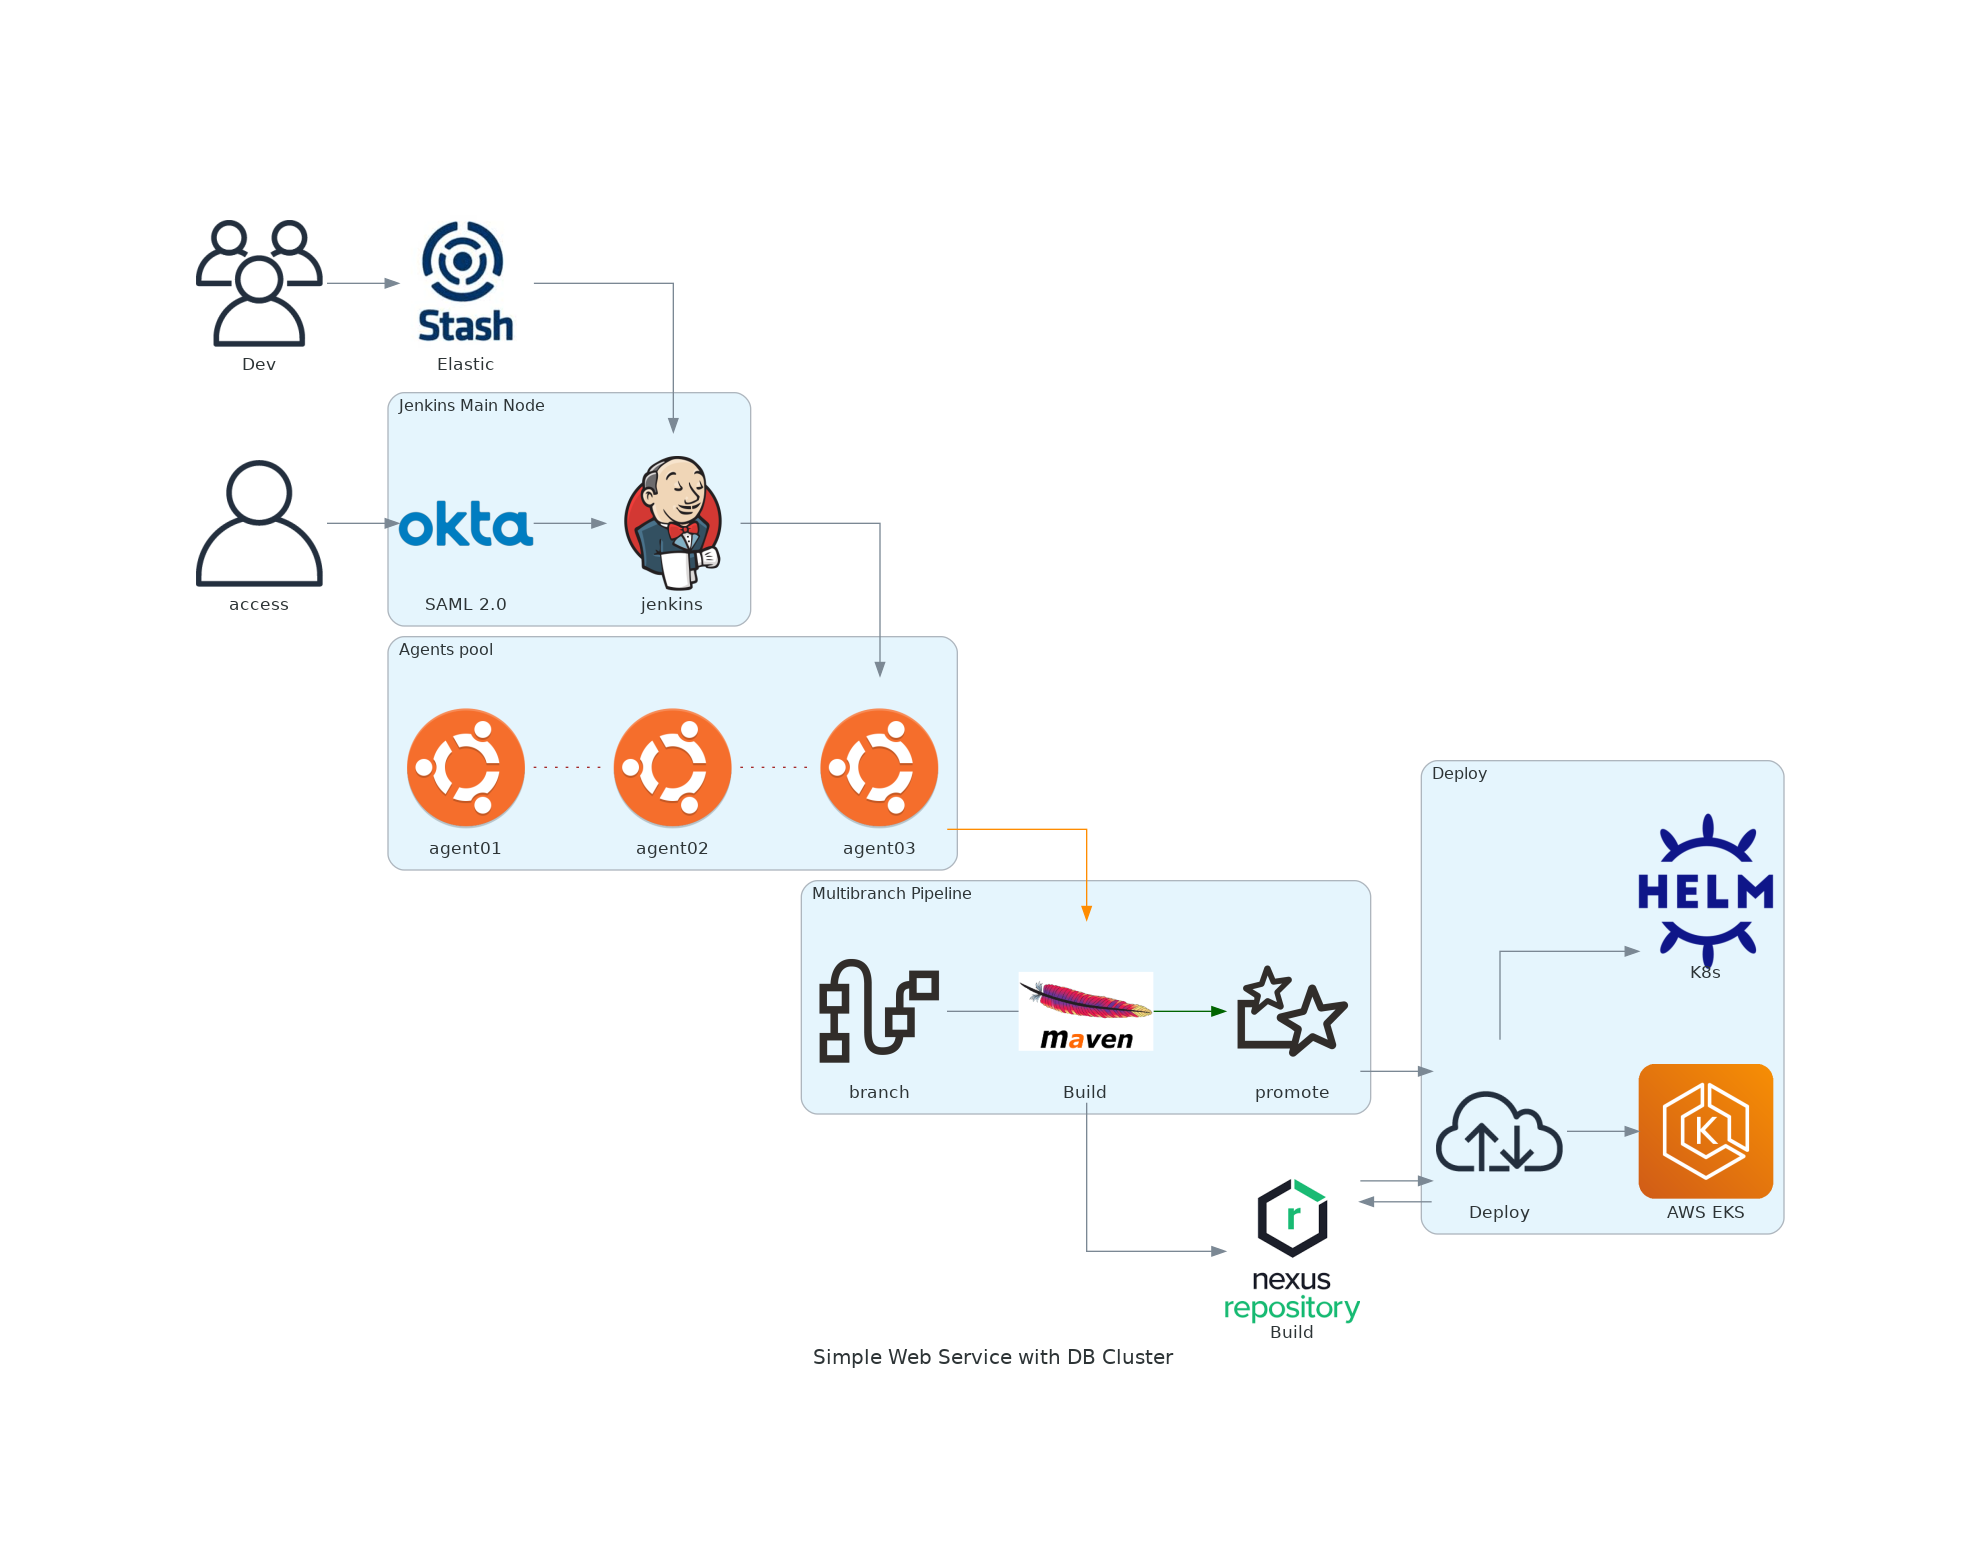
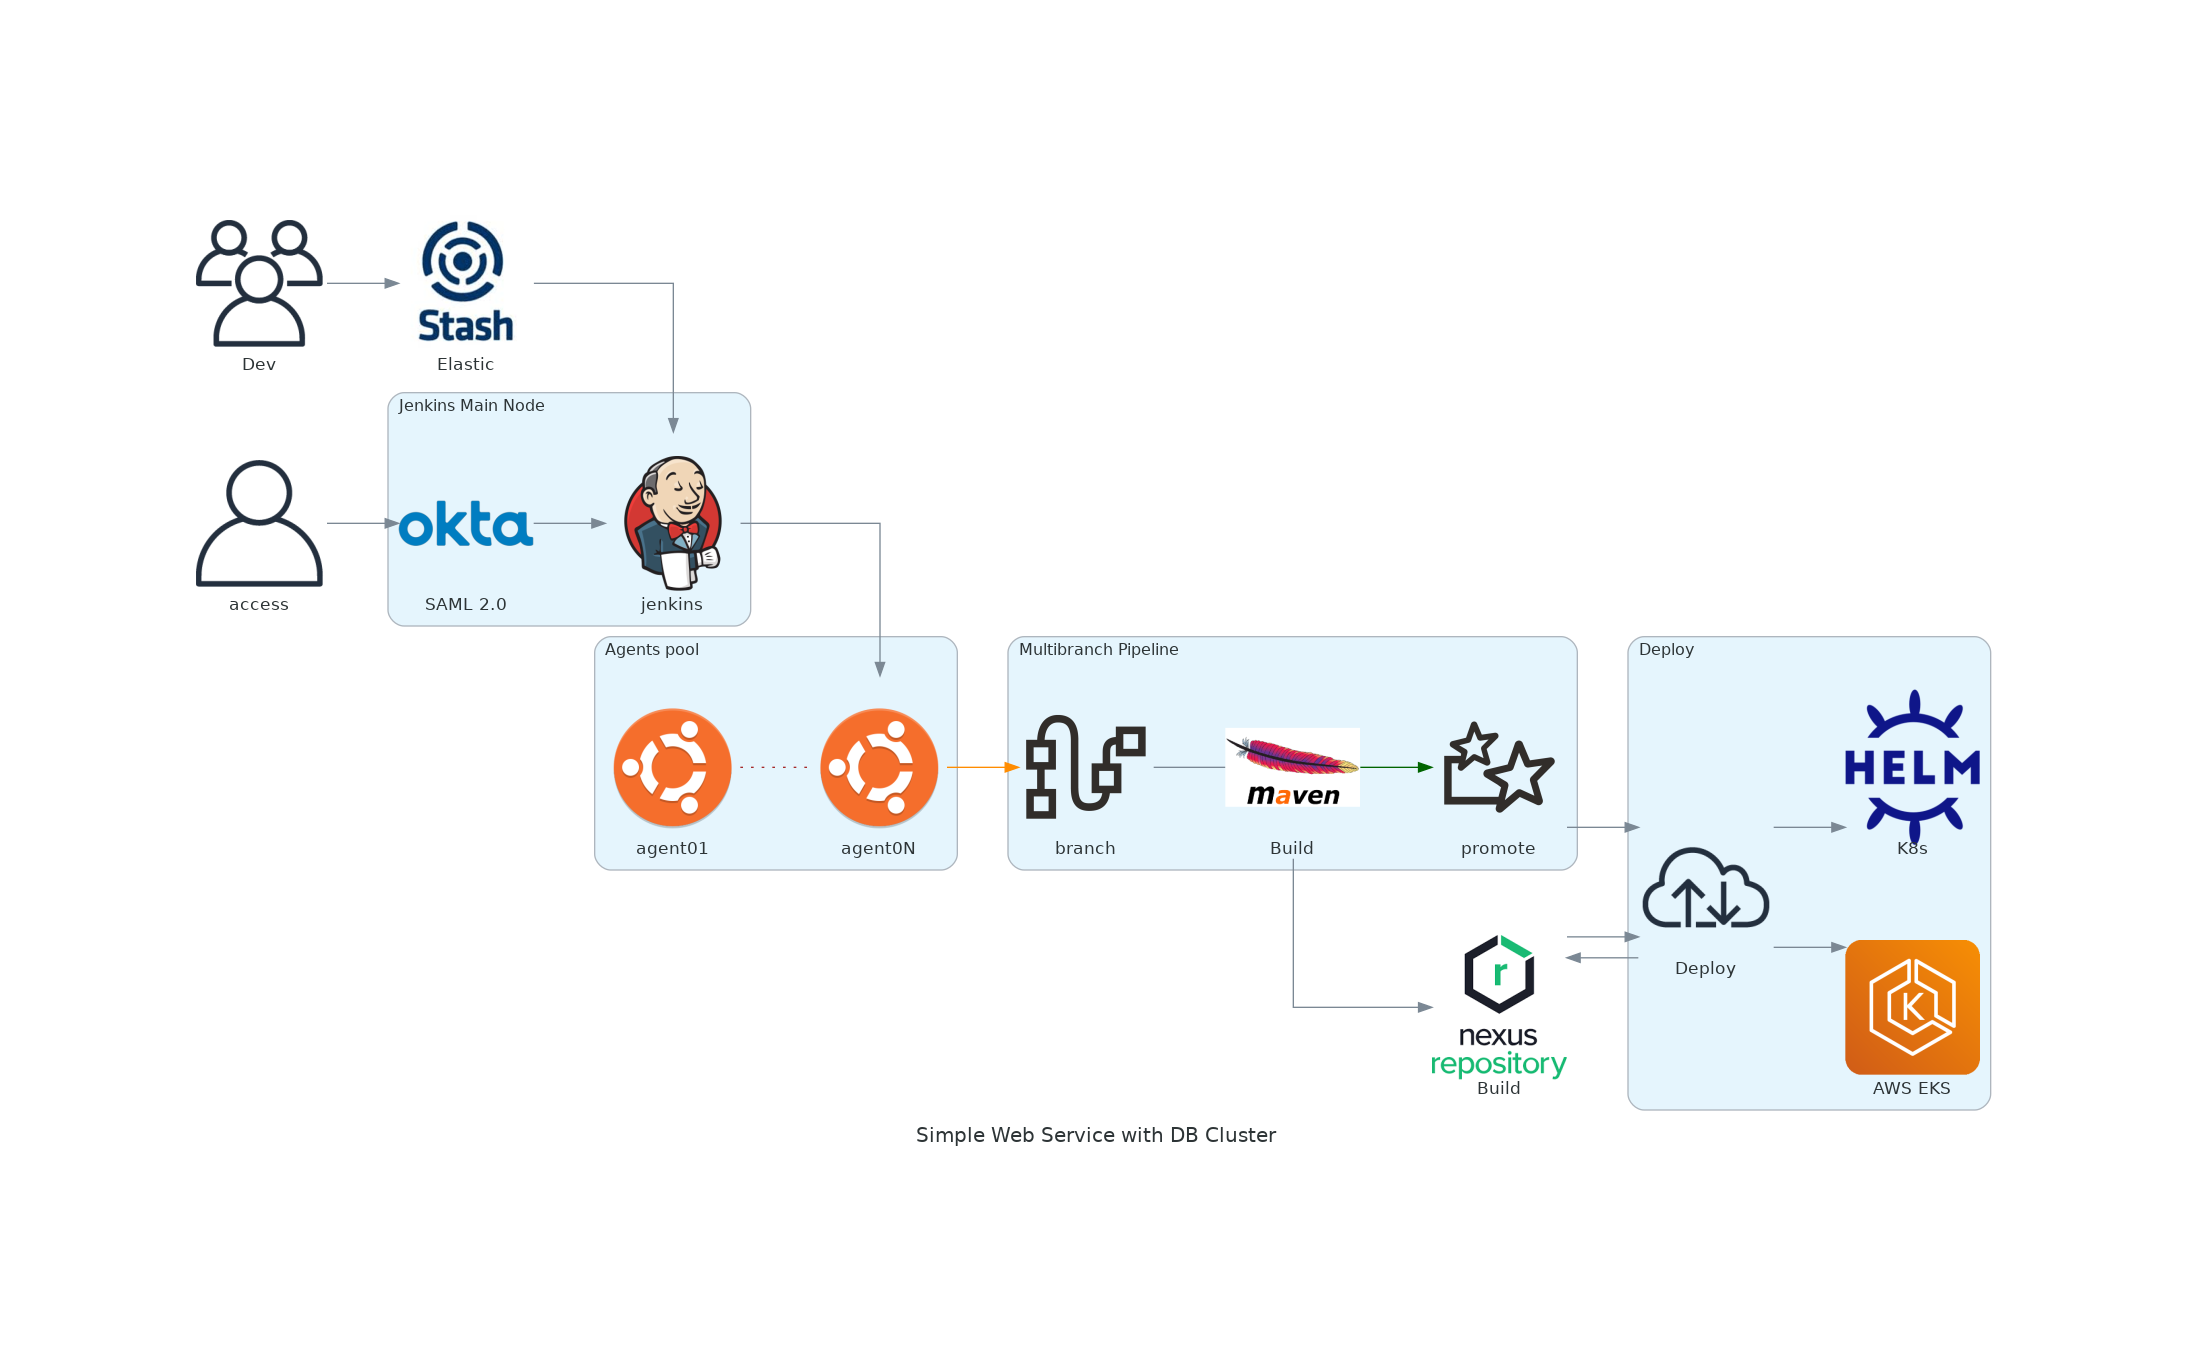
Example2 finished

Changed region(s): [[0.0936, 0.1248, 0.9049, 0.8425], [0.4056, 0.8425, 0.5929, 0.8737]]

diff --git a/Example2.py b/Example2.py
@@ -24,9 +24,7 @@ with Diagram("Simple Web Service with DB Cluster", show=False):
     with Cluster("Agents pool"):
         agents = Ubuntu("agent01") - \
                  Edge(color="brown", style="dotted") \
-                 - Ubuntu("agent02") - \
-                 Edge(color="brown", style="dotted") \
-                 - Ubuntu("agent03")
+                 - Ubuntu("agent0N")
 
     with Cluster("Jenkins Main Node"):
         saml = Okta("SAML 2.0")
@@ -59,4 +57,5 @@ with Diagram("Simple Web Service with DB Cluster", show=False):
     promote >> deploy
     nexus >> deploy
     deploy >> nexus
-    developers >> stash >> jenkins >> agents >> Edge(color="darkorange") >> maven >> nexus
+    maven >> nexus
+    developers >> stash >> jenkins >> agents >> Edge(color="darkorange") >> branch
